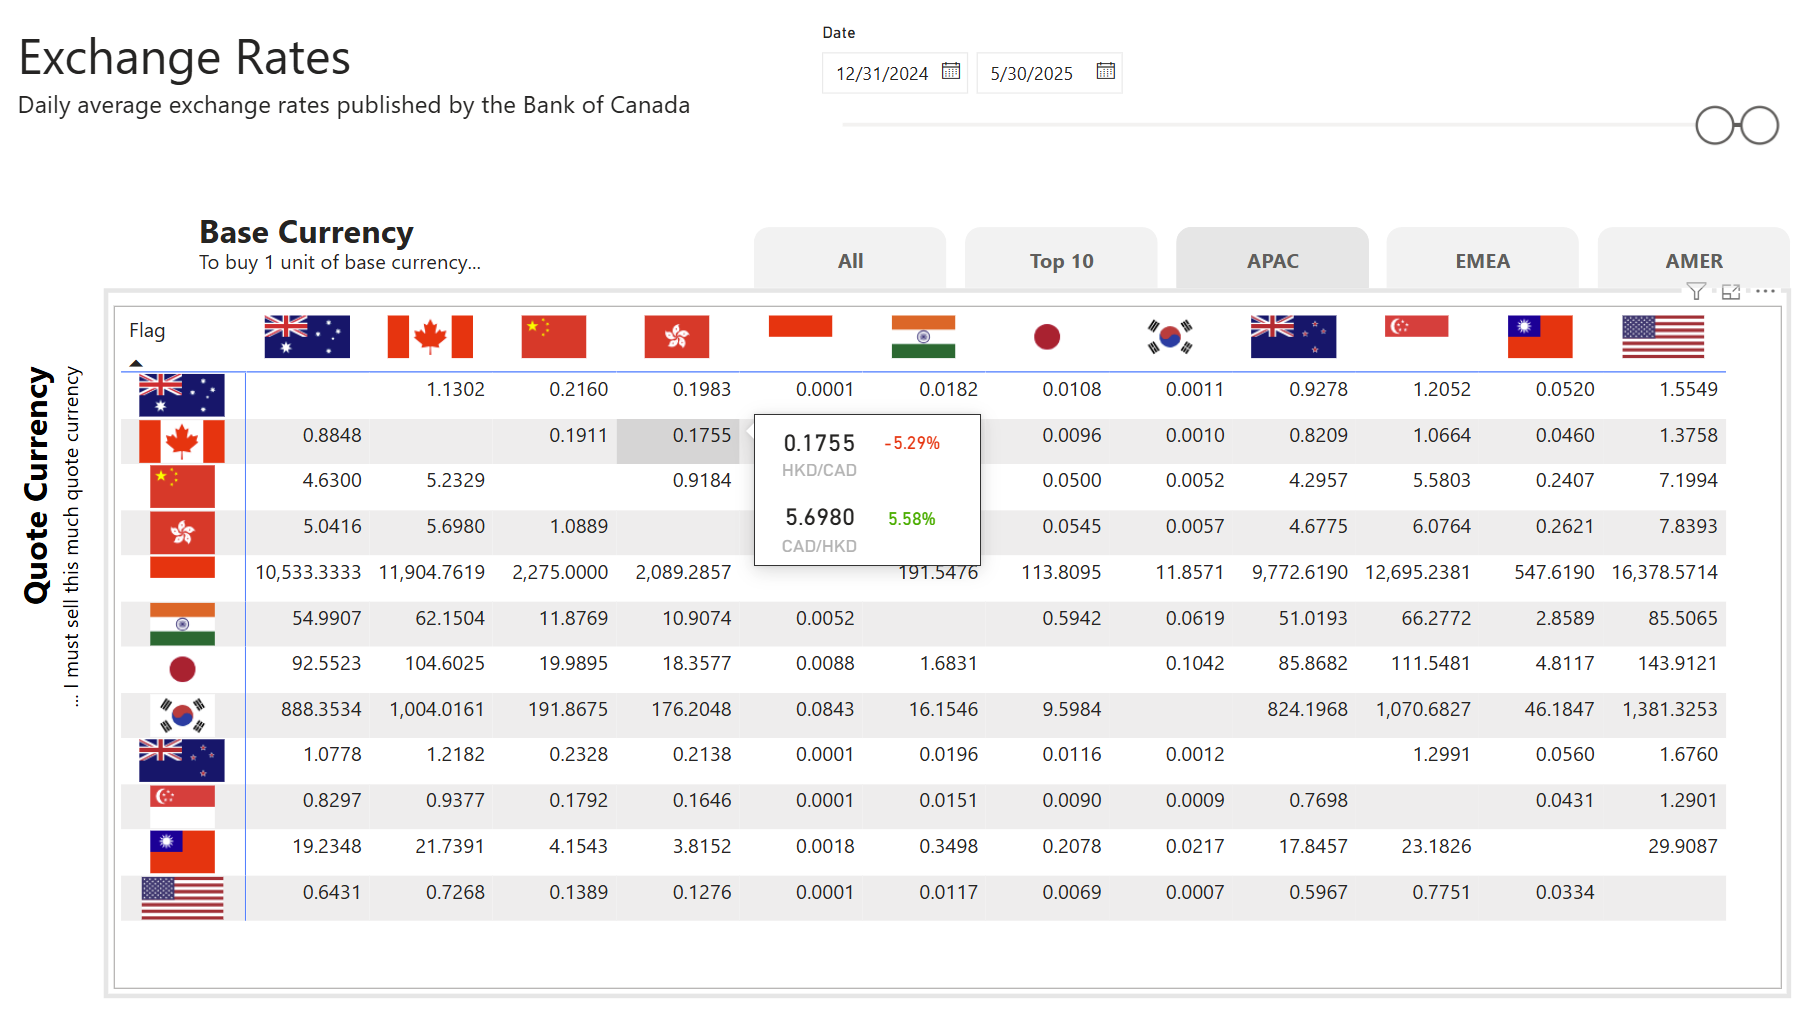
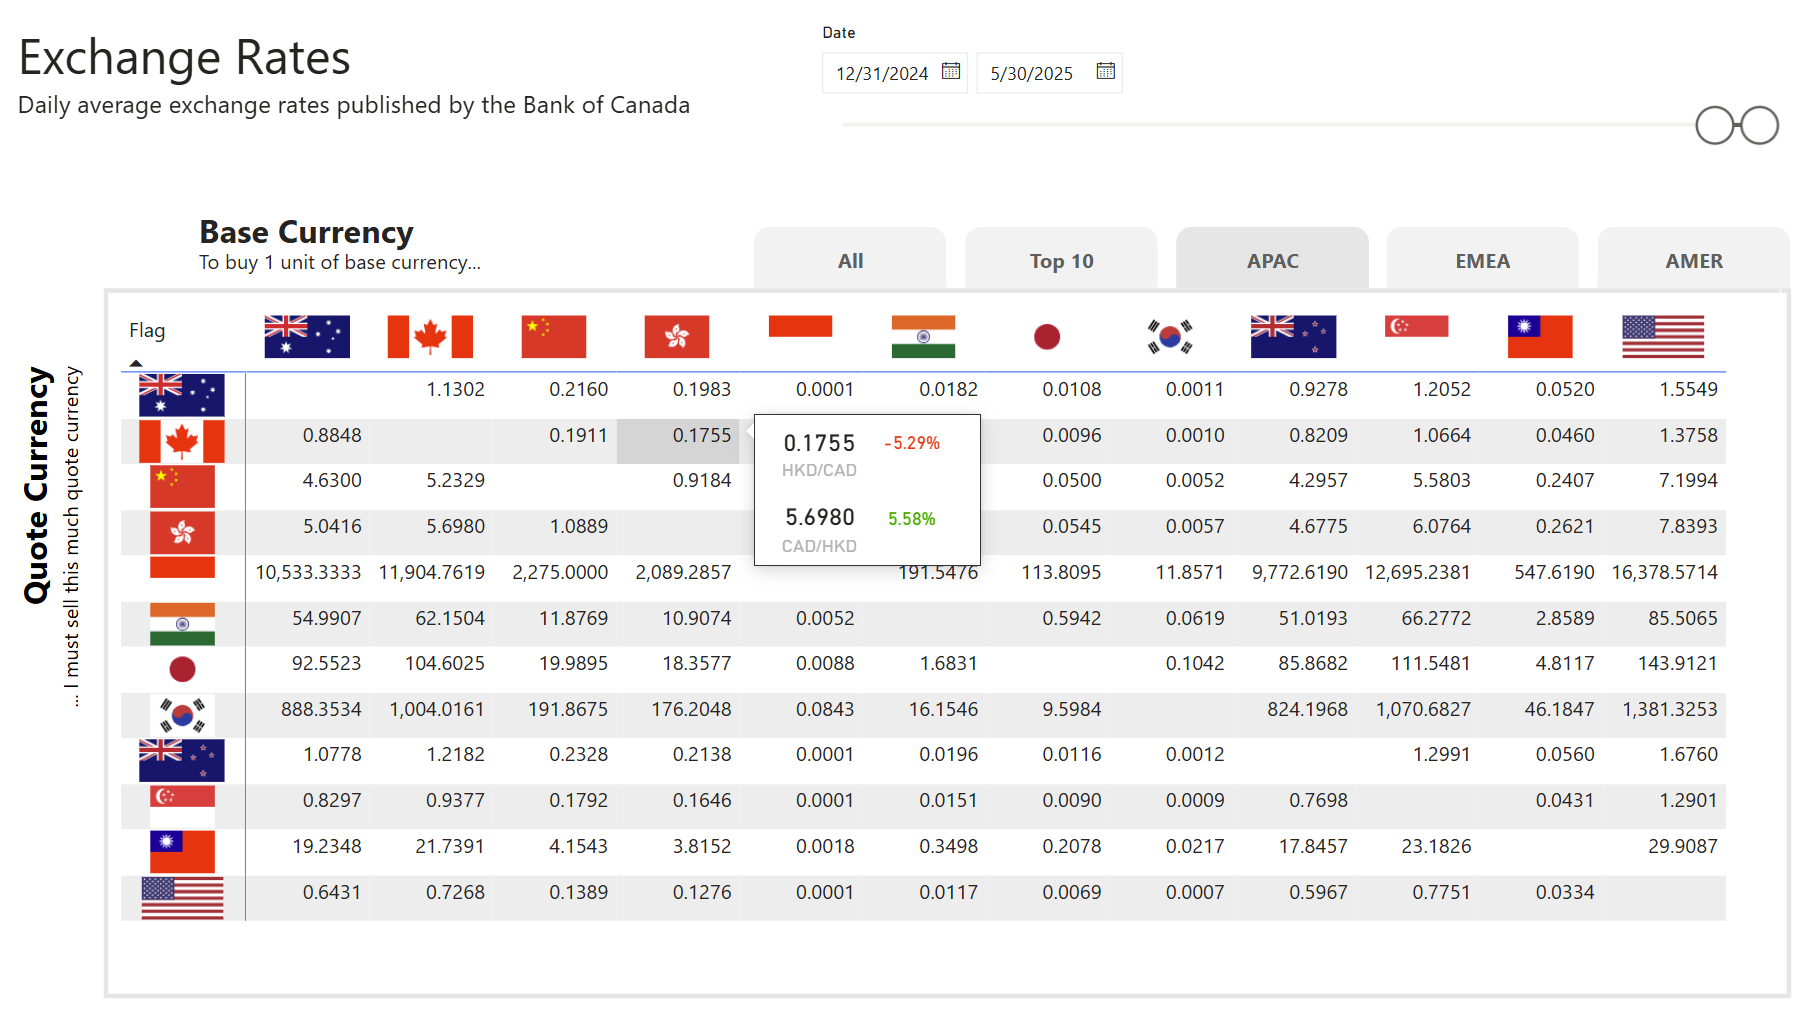
Updated readme

Changed region(s): [[0.9297, 0.2754, 0.9917, 0.306]]

diff --git a/README.md b/README.md
@@ -59,6 +59,6 @@ The [Purchasing Power Parity](Purchasin%20Power%20Parity.pbix) report uses the P
 
 ## Project 7: Exchange Rates
 
-The [Forex](Forex.pbix) report uses the Bank of Canada's average daily exchange rates to calculate cross rates and percentage changes over time. Use the tabs to navigate between currencies by region (note: CAD and USD are always shown for reference). Hover over any cell to view both the direct and indirect exchange rates.
+The [Forex](Forex.pbix) report uses the Bank of Canada's average daily exchange rates to calculate cross rates and percentage changes over time. Use the tabs to navigate between currencies by region (note: CAD and USD are always shown for reference). Hover over any cell to view the direct and indirect exchange rates, as well as their respective changes during the selected period.
 
 <img src="images/forex.png" alt="Exchange Rates" />
